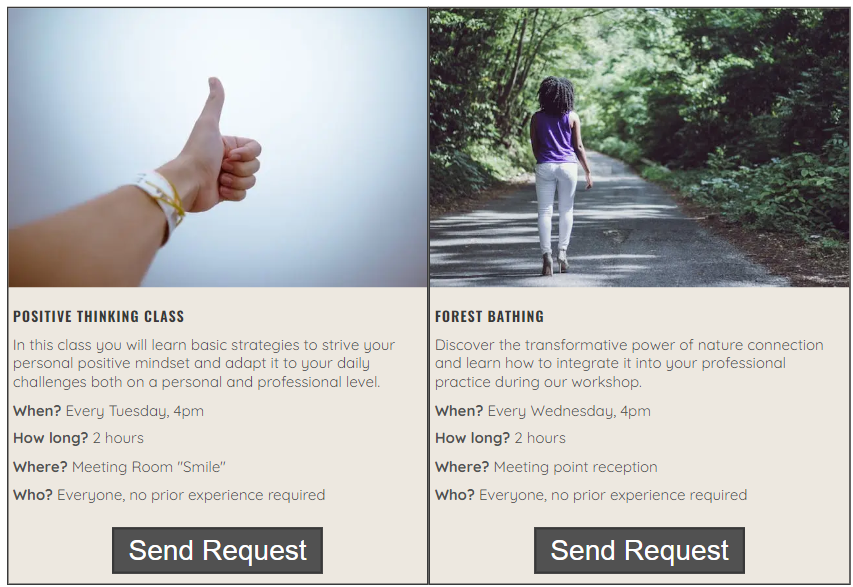
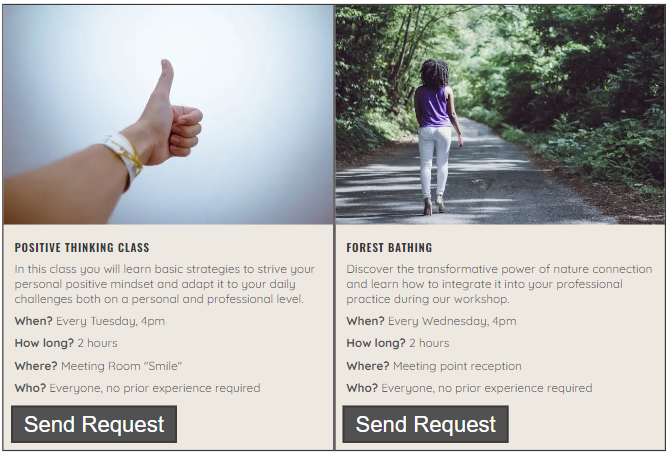
add new style to button

Changed region(s): [[0.0, 0.0, 1.0, 1.0]]

diff --git a/workshops.html b/workshops.html
@@ -68,7 +68,9 @@
                         <p><strong>Where?</strong> Meeting Room "Smile"</p>
                         <p><strong>Who?</strong> Everyone, no prior experience required</p>
 
-                        <button class="button-request"><a href="booking.html">Send Request</a></button>
+                        <div class="button-request">
+                            <a href="booking.html" role="button">Send Request</a>
+                        </div>
                     </div>
                 </div>
                 <div class="workshops-description">
@@ -85,7 +87,9 @@
                         <p><strong>Where?</strong> Meeting point reception</p>
                         <p><strong>Who?</strong> Everyone, no prior experience required</p>
 
-                        <button class="button-request"><a href="booking.html">Send Request</a></button>
+                        <div class="button-request">
+                            <a href="booking.html" role="button">Send Request</a>
+                        </div>
                     </div>
                 </div>
                 <div class="workshops-description">
@@ -103,7 +107,9 @@
                         <p><strong>Where?</strong> Fitness Room</p>
                         <p><strong>Who?</strong> Everyone, no prior experience required</p>
 
-                        <button class="button-request"><a href="booking.html">Send Request</a></button>
+                        <div class="button-request">
+                            <a href="booking.html" role="button">Send Request</a>
+                        </div>
                     </div>
                 </div>
                 <div class="workshops-description">
@@ -121,7 +127,9 @@
                         <p><strong>Where?</strong> Meeting Room "Smile"</p>
                         <p><strong>Who?</strong> Everyone, no prior experience required</p>
 
-                        <button class="button-request"><a href="booking.html">Send Request</a></button>
+                        <div class="button-request">
+                            <a href="booking.html" role="button">Send Request</a>
+                        </div>
                     </div>
                 </div>
 
